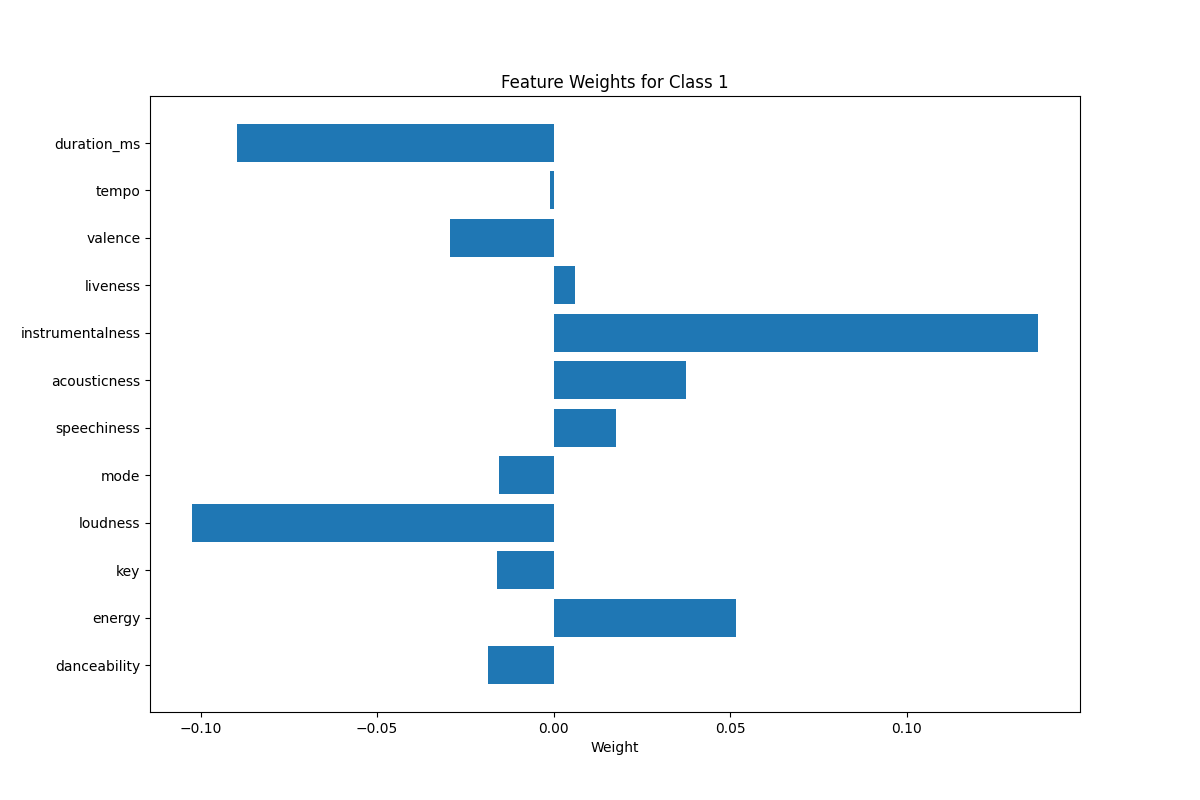
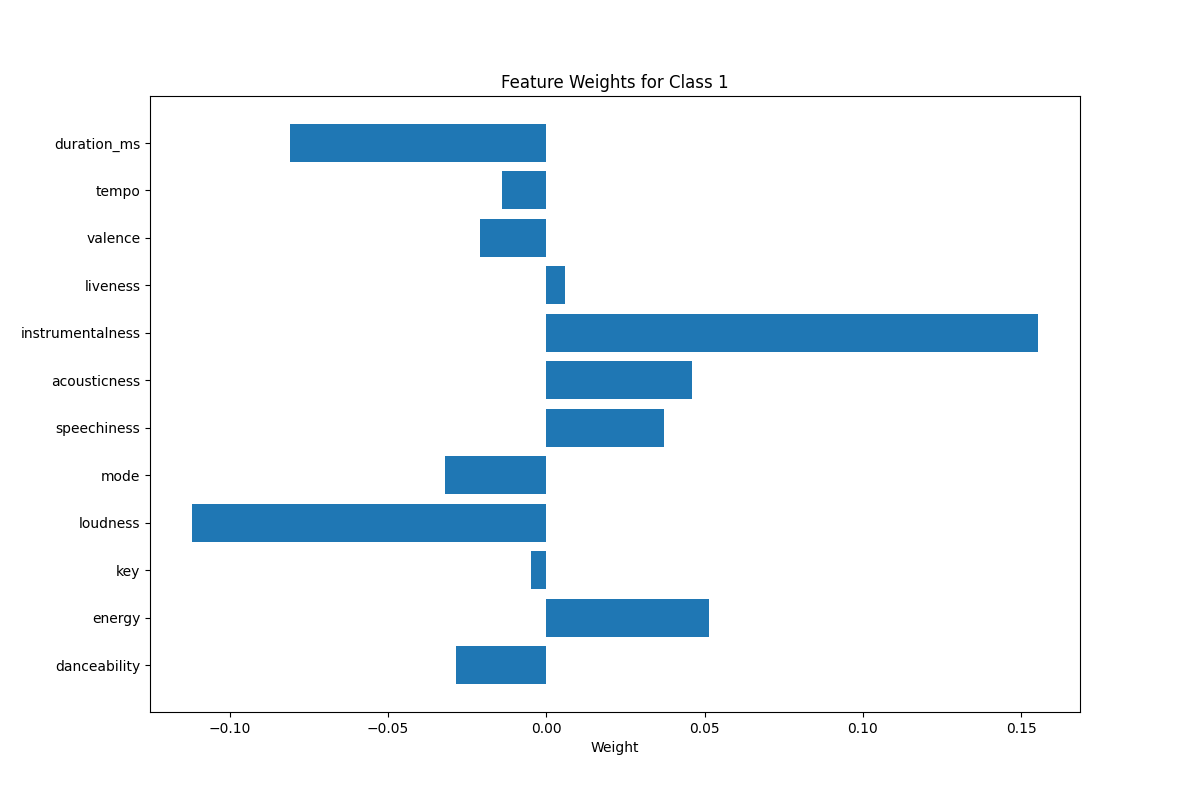
develop

diff --git a/final_try.py b/final_try.py
@@ -49,42 +49,30 @@ def softmax(x):
     return e_x / e_x.sum(axis=1, keepdims=True)
 
 class SoftmaxRegression:
-    def __init__(self, learning_rate=0.05, num_iterations=1000):
+    def __init__(self, learning_rate=0.05, num_iterations=3000):
         self.learning_rate = learning_rate
         self.num_iterations = num_iterations
 
-    def cross_validate(self, X, y, learning_rates, num_iterations_list, k=5):
+    def cross_validate(self, X_train, y_train, X_val, y_val, learning_rates, num_iterations_list):
         best_f1 = 0
         best_params = {'learning_rate': None, 'num_iterations': None}
 
-        X = np.array(X)
-        y = np.array(y)
-
         for learning_rate in learning_rates:
             for num_iterations in num_iterations_list:
-                f1_scores = []
-                print(f'Learning rate: {learning_rate}, Num iterations: {num_iterations}')
+                print(f"Testing learning rate {learning_rate}, iteration {num_iterations}")
 
-                kf = KFold(n_splits=k, shuffle=True, random_state=42)
-                for train_index, val_index in kf.split(X):
-                    print("TRAIN:", train_index, "TEST:", val_index)
-                    X_train, X_val = X[train_index], X[val_index]
-                    y_train, y_val = y[train_index], y[val_index]
-                    
+                self.__init__(learning_rate, num_iterations)
+                self.fit(X_train, y_train)
 
-                    self.__init__(learning_rate, num_iterations)  # Re-initialize the model
-                    self.fit(X_train, y_train)
+                y_pred = self.predict(X_val)
+                f1 = f1_score(y_val, y_pred, average='weighted')
 
-                    y_pred = self.predict(X_val)
-                    f1 = f1_score(y_val, y_pred, average='weighted')
-                    f1_scores.append(f1)
-
-                avg_f1 = np.mean(f1_scores)
-                if avg_f1 > best_f1:
-                    best_f1 = avg_f1
+                if f1 > best_f1:
+                    best_f1 = f1
                     best_params['learning_rate'] = learning_rate
                     best_params['num_iterations'] = num_iterations
-                
+
+                print(f"  - F1 Score: {f1}, Best F1: {best_f1}")
 
         return best_params
 
@@ -129,6 +117,22 @@ class SoftmaxRegression:
         scores = np.dot(X, self.W) + self.b
         probabilities = softmax(scores)
         return probabilities
+
+    def split_data(self, X, y, train_size=0.6, test_size=0.2, random_state=42):
+    # First split: 60% training, 40% temporary (test + validation)
+        X_train, X_temp, y_train, y_temp = train_test_split(
+            X, y, train_size=train_size, random_state=random_state
+        )
+
+        # Adjust test_size for the second split: it's 50% of the remaining data
+        temp_test_size = test_size / (1 - train_size)
+
+        # Second split: split the temporary set into test and validation
+        X_test, X_val, y_test, y_val = train_test_split(
+            X_temp, y_temp, test_size=temp_test_size, random_state=random_state
+        )
+
+        return X_train, X_test, X_val, y_train, y_test, y_val
     
     def plot_performance_over_iterations(self, accuracy_history, f1_history, file_name):
         plt.figure(figsize=(10, 6))
@@ -217,14 +221,18 @@ def main():
     data = load_data()
     X, y = separate_data(data)
     X_scaled = standardize_data(X)
-    X_train, X_test, y_train, y_test = train_test_split(X_scaled, y, test_size=0.2, random_state=42, stratify=y)
+
+    model = SoftmaxRegression()
+
+    X_train, X_test, X_val, y_train, y_test, y_val = model.split_data(X_scaled, y)
 
     learning_rates = [0.01, 0.05, 0.1]
     num_iterations_list = [1000, 2000, 3000]
 
-    # # Cross-validate to find the best hyperparameters
-    model = SoftmaxRegression()
-    best_params = model.cross_validate(X_train, y_train, learning_rates, num_iterations_list)
+    
+
+    # Cross-validate to find the best hyperparameters
+    best_params = model.cross_validate(X_train, y_train, X_val, y_val, learning_rates, num_iterations_list)
 
     print("Best hyperparameters:", best_params)
 
@@ -234,13 +242,11 @@ def main():
     accuracy = np.sum(y_pred == y_test)/y_test.size
 
 
-
     # Print results
 
     print("Accuracy:", accuracy*100)
     f1 = f1_score(y_test, y_pred, average='weighted')
     print("F1 Score:", f1*100)
-    print("Lengths of y_test and y_pred:", len(y_test), len(y_pred))
 
     # Plots 
     model.plot_confusion_matrix(y_test, y_pred, model.classes, 'softmax_confusion_matrix.png')
